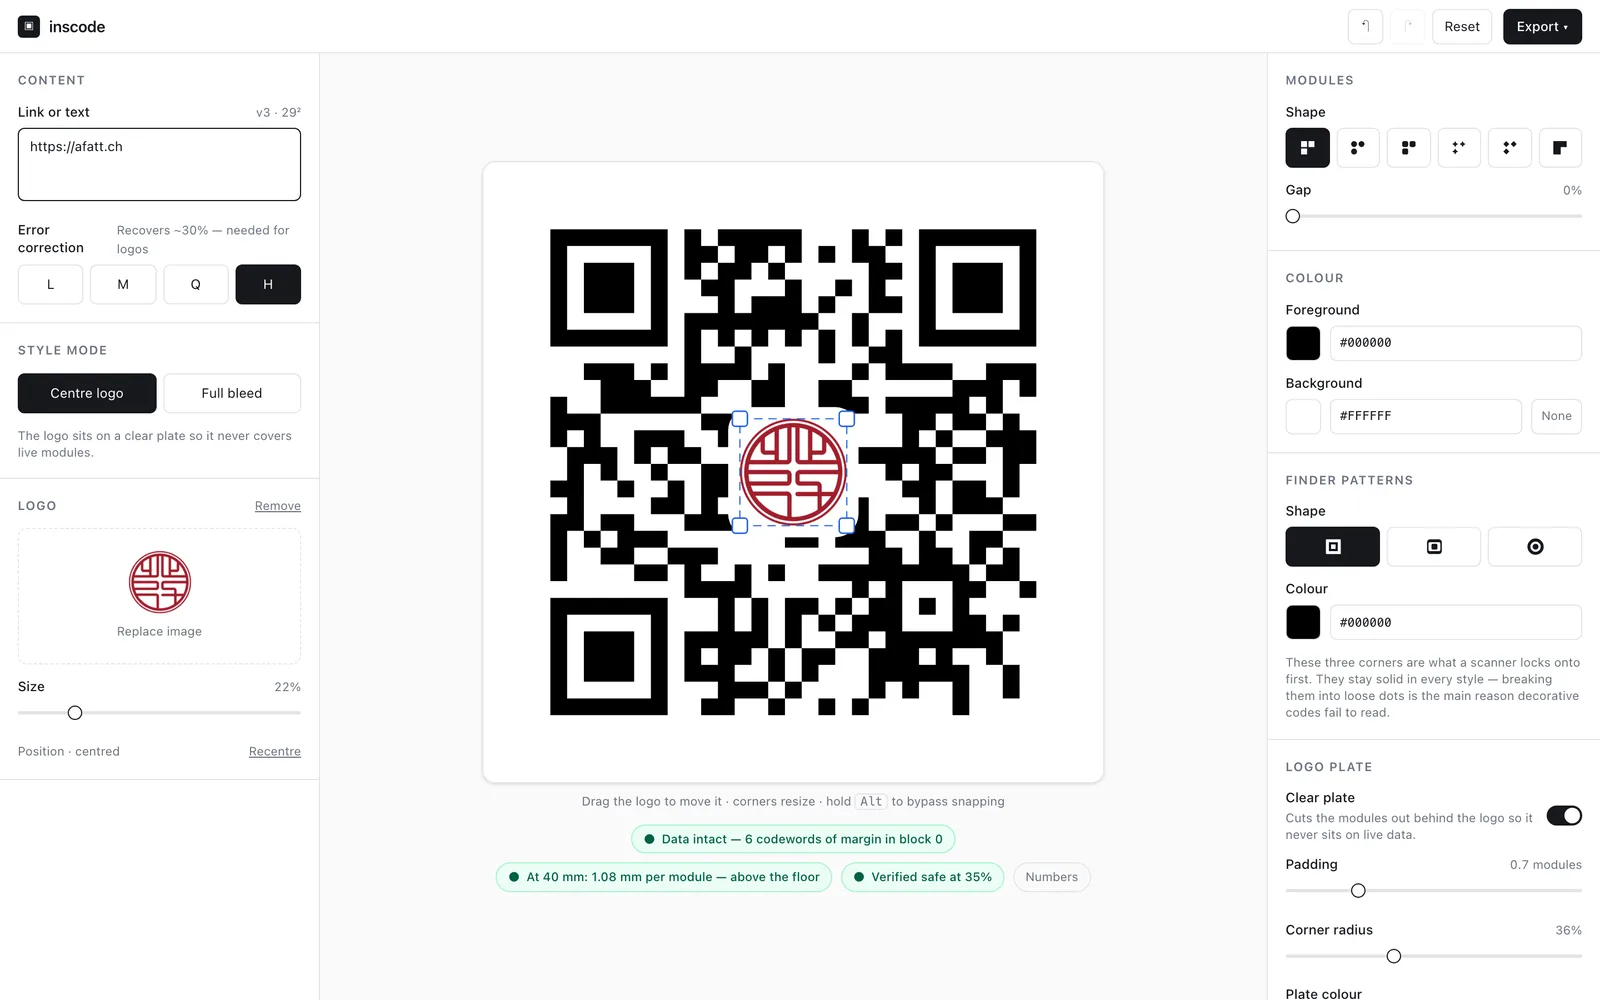
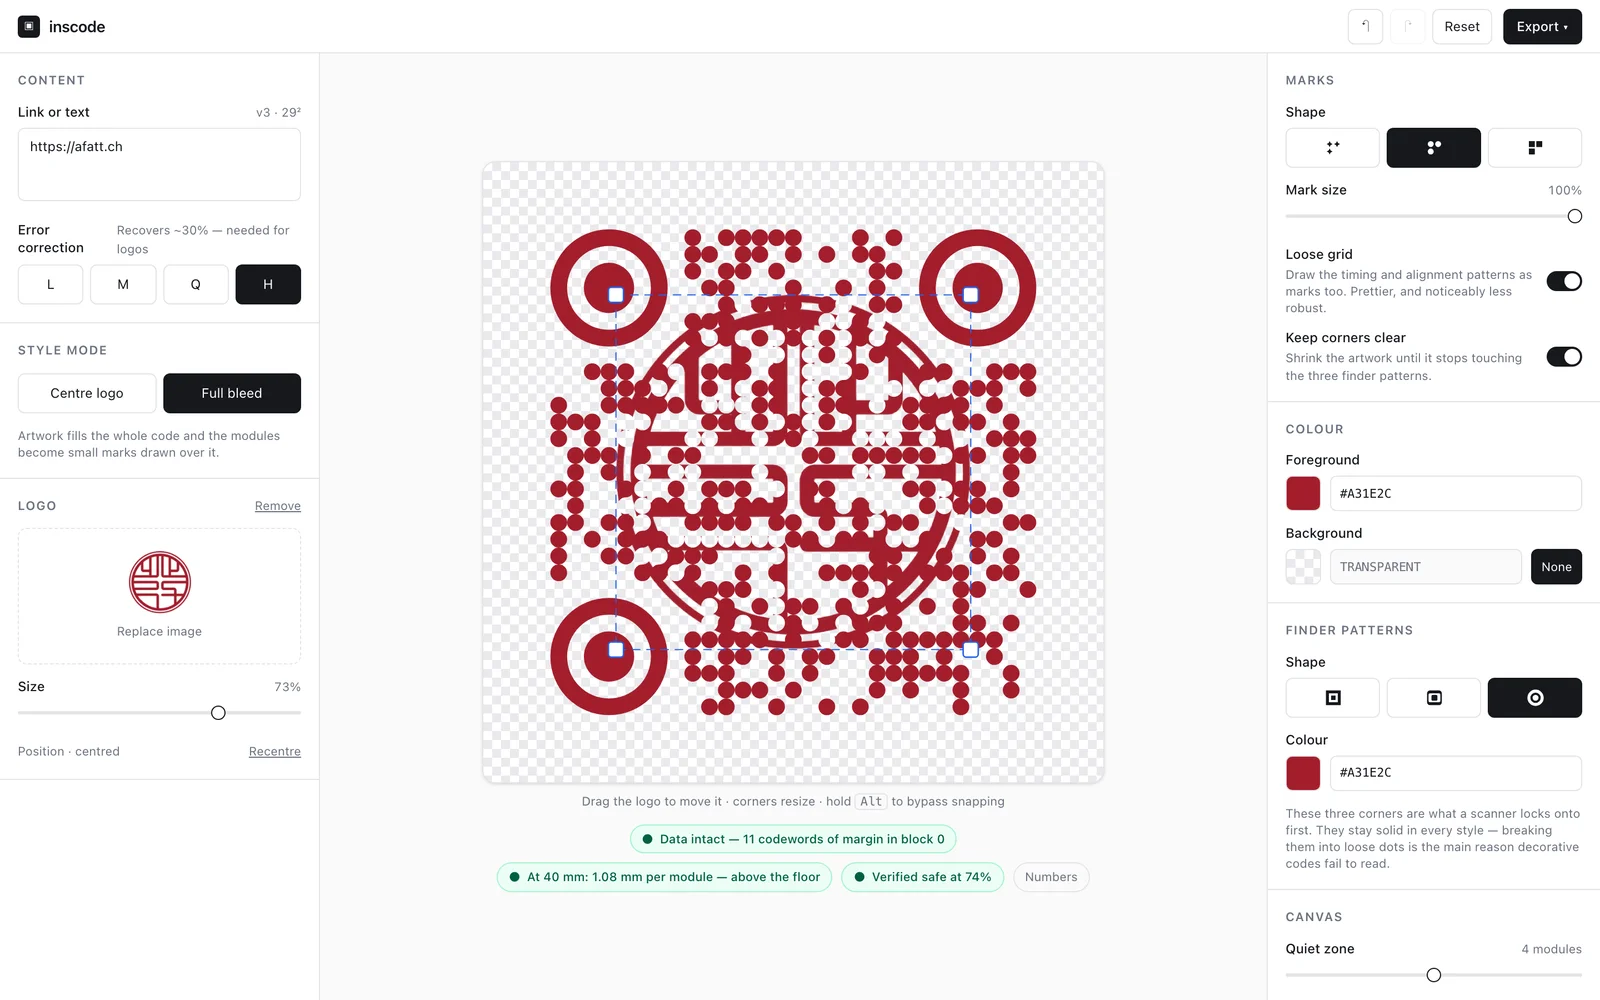
Draft: inscode screenshot shows the flyer's full-bleed design, all checks green

diff --git a/src/content/projects/restaurant-menu-tools/index.md b/src/content/projects/restaurant-menu-tools/index.md
@@ -84,7 +84,7 @@ Every piece is a web page at its real print size, with the brand's colours and f
 
 The flyer hangs outside the restaurant with a QR code carrying their logo. A logo uses up a QR code's error correction, and a code that has gone too far still looks fine on screen and fails on the wall. So we built a small tool, [inscode](https://github.com/yingshiuan/inscode), that measures how much the logo can cover, checks the code at its printed size, and reads back every file it writes before calling it done. The printed flyer scans.
 
-![inscode with A Fatt's seal on a code for afatt.ch: data intact, module size at print size, verified safe](./inscode.webp)
+![The flyer's code in inscode: A Fatt's seal across the whole code, and still verified. Data intact, the module size above the floor at print size, and the logo verified safe.](./inscode.webp)
 
 #### A logo that holds at poster size
 
